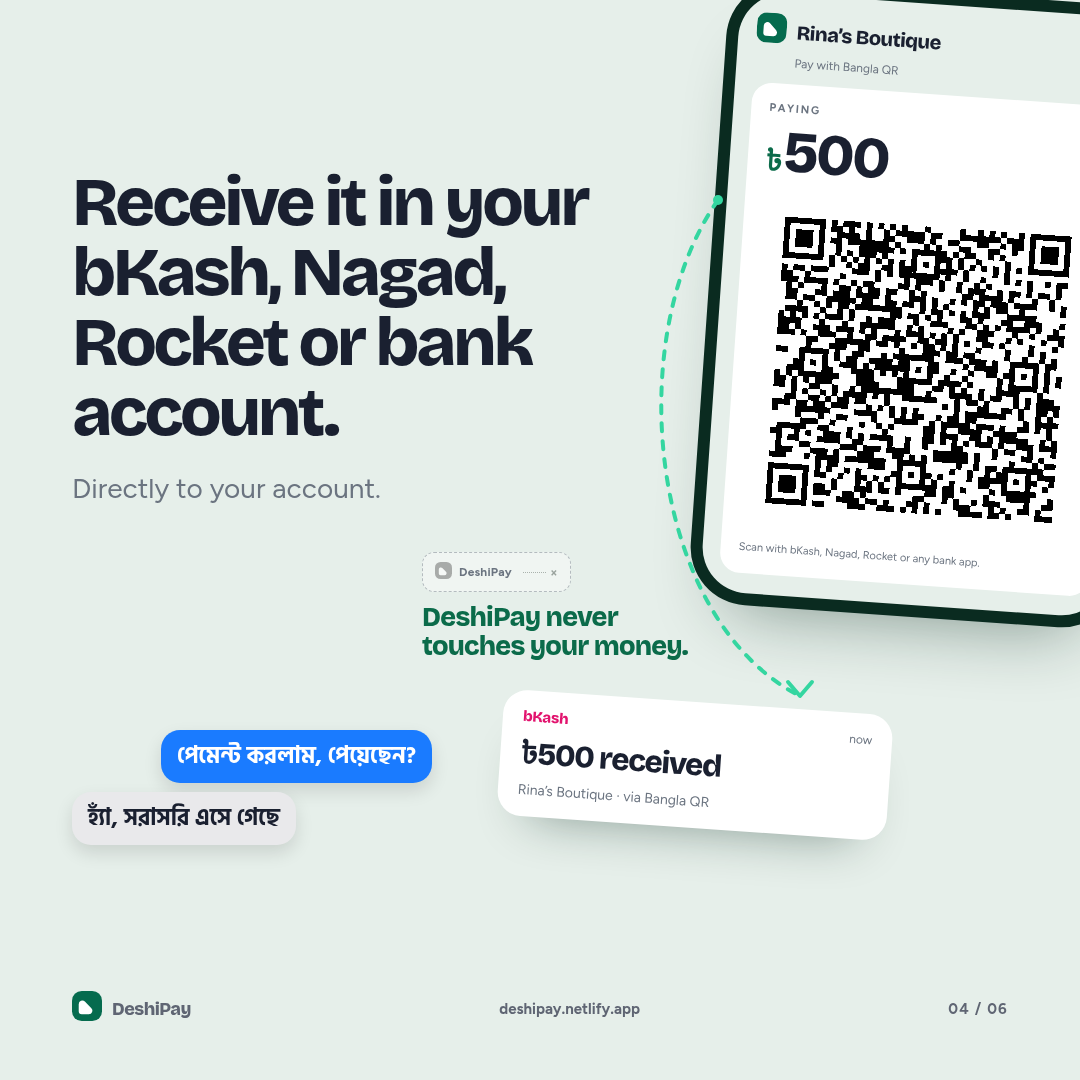
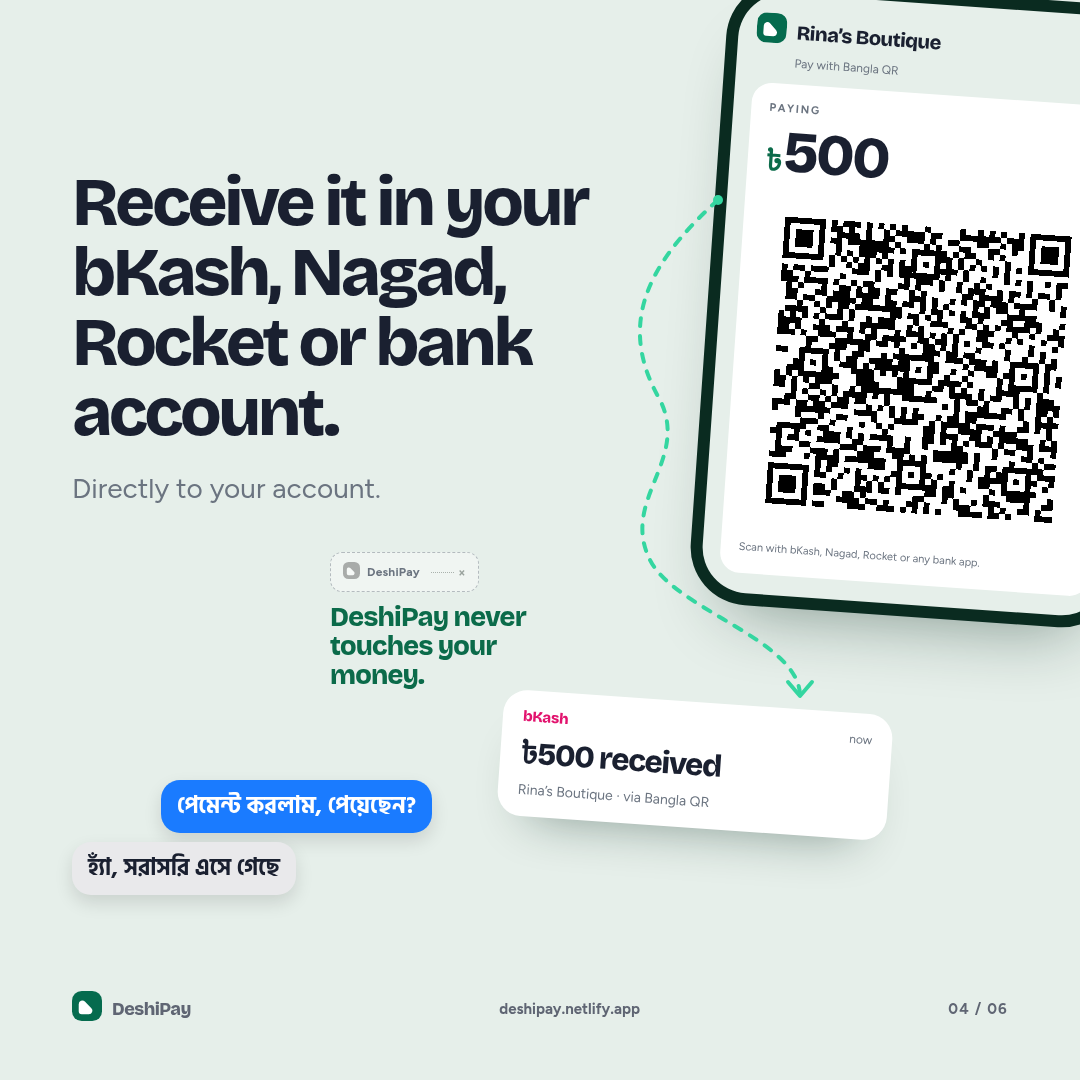
design(page4): add playful S-curve to the dashed arrow

diff --git a/promotionals/social/source/social.html b/promotionals/social/source/social.html
@@ -94,11 +94,11 @@
   .pay-amount span { color:#0B6B4A; font-size:29px; }
   .s4-phone .qrbox { border-radius:0; }
   .pay-note { margin:10px 0 0; color:#6B7480; font-size:11px; line-height:1.45; }
-  .s4-chat { position:absolute; z-index:6; left:72px; top:730px; width:360px; }
+  .s4-chat { position:absolute; z-index:6; left:72px; top:780px; width:360px; }
   .s4-msg { width:max-content; max-width:100%; margin:0; padding:11px 16px; border-radius:19px; font-family:"Hind Siliguri","Noto Sans Bengali",sans-serif; font-weight:700; font-size:23px; line-height:1.35; box-shadow:0 8px 18px rgba(0,0,0,.12); }
   .s4-msg.ask { margin-left:auto; background:#1A7BFF; color:#fff; }
   .s4-msg.answer { margin-top:9px; background:#E9E9EB; color:#1A2030; }
-  .s4-stays { position:absolute; z-index:7; left:422px; top:552px; width:300px; }
+  .s4-stays { position:absolute; z-index:7; left:330px; top:552px; width:240px; }
   .s4-tag { display:inline-flex; align-items:center; gap:7px; padding:9px 12px; border:1px dashed rgba(107,116,128,.45); border-radius:12px; background:rgba(255,255,255,.4); color:#6B7480; font:800 12px Figtree,sans-serif; letter-spacing:.02em; }
   .s4-tag .mark { width:17px; height:17px; opacity:.45; filter:grayscale(1); }
   .s4-tag b { font:800 12px Figtree,sans-serif; }
@@ -182,7 +182,7 @@
       <p>Rina’s Boutique · via Bangla QR</p>
     </div>
     <svg class="s4-arrow" viewBox="0 0 1080 1080" aria-hidden="true">
-      <path d="M 718 200 C 620 340 650 620 800 696" fill="none" stroke="#34D6A0" stroke-width="4" stroke-linecap="round" stroke-dasharray="8 10"/>
+      <path d="M 718 200 C 640 270 620 330 660 400 C 690 460 620 500 650 560 C 675 610 800 640 800 696" fill="none" stroke="#34D6A0" stroke-width="4" stroke-linecap="round" stroke-dasharray="8 10"/>
       <circle cx="718" cy="200" r="5" fill="#34D6A0"/>
       <path d="M 788 682 L 800 696 L 812 682" fill="none" stroke="#34D6A0" stroke-width="4" stroke-linecap="round" stroke-linejoin="round"/>
     </svg>
